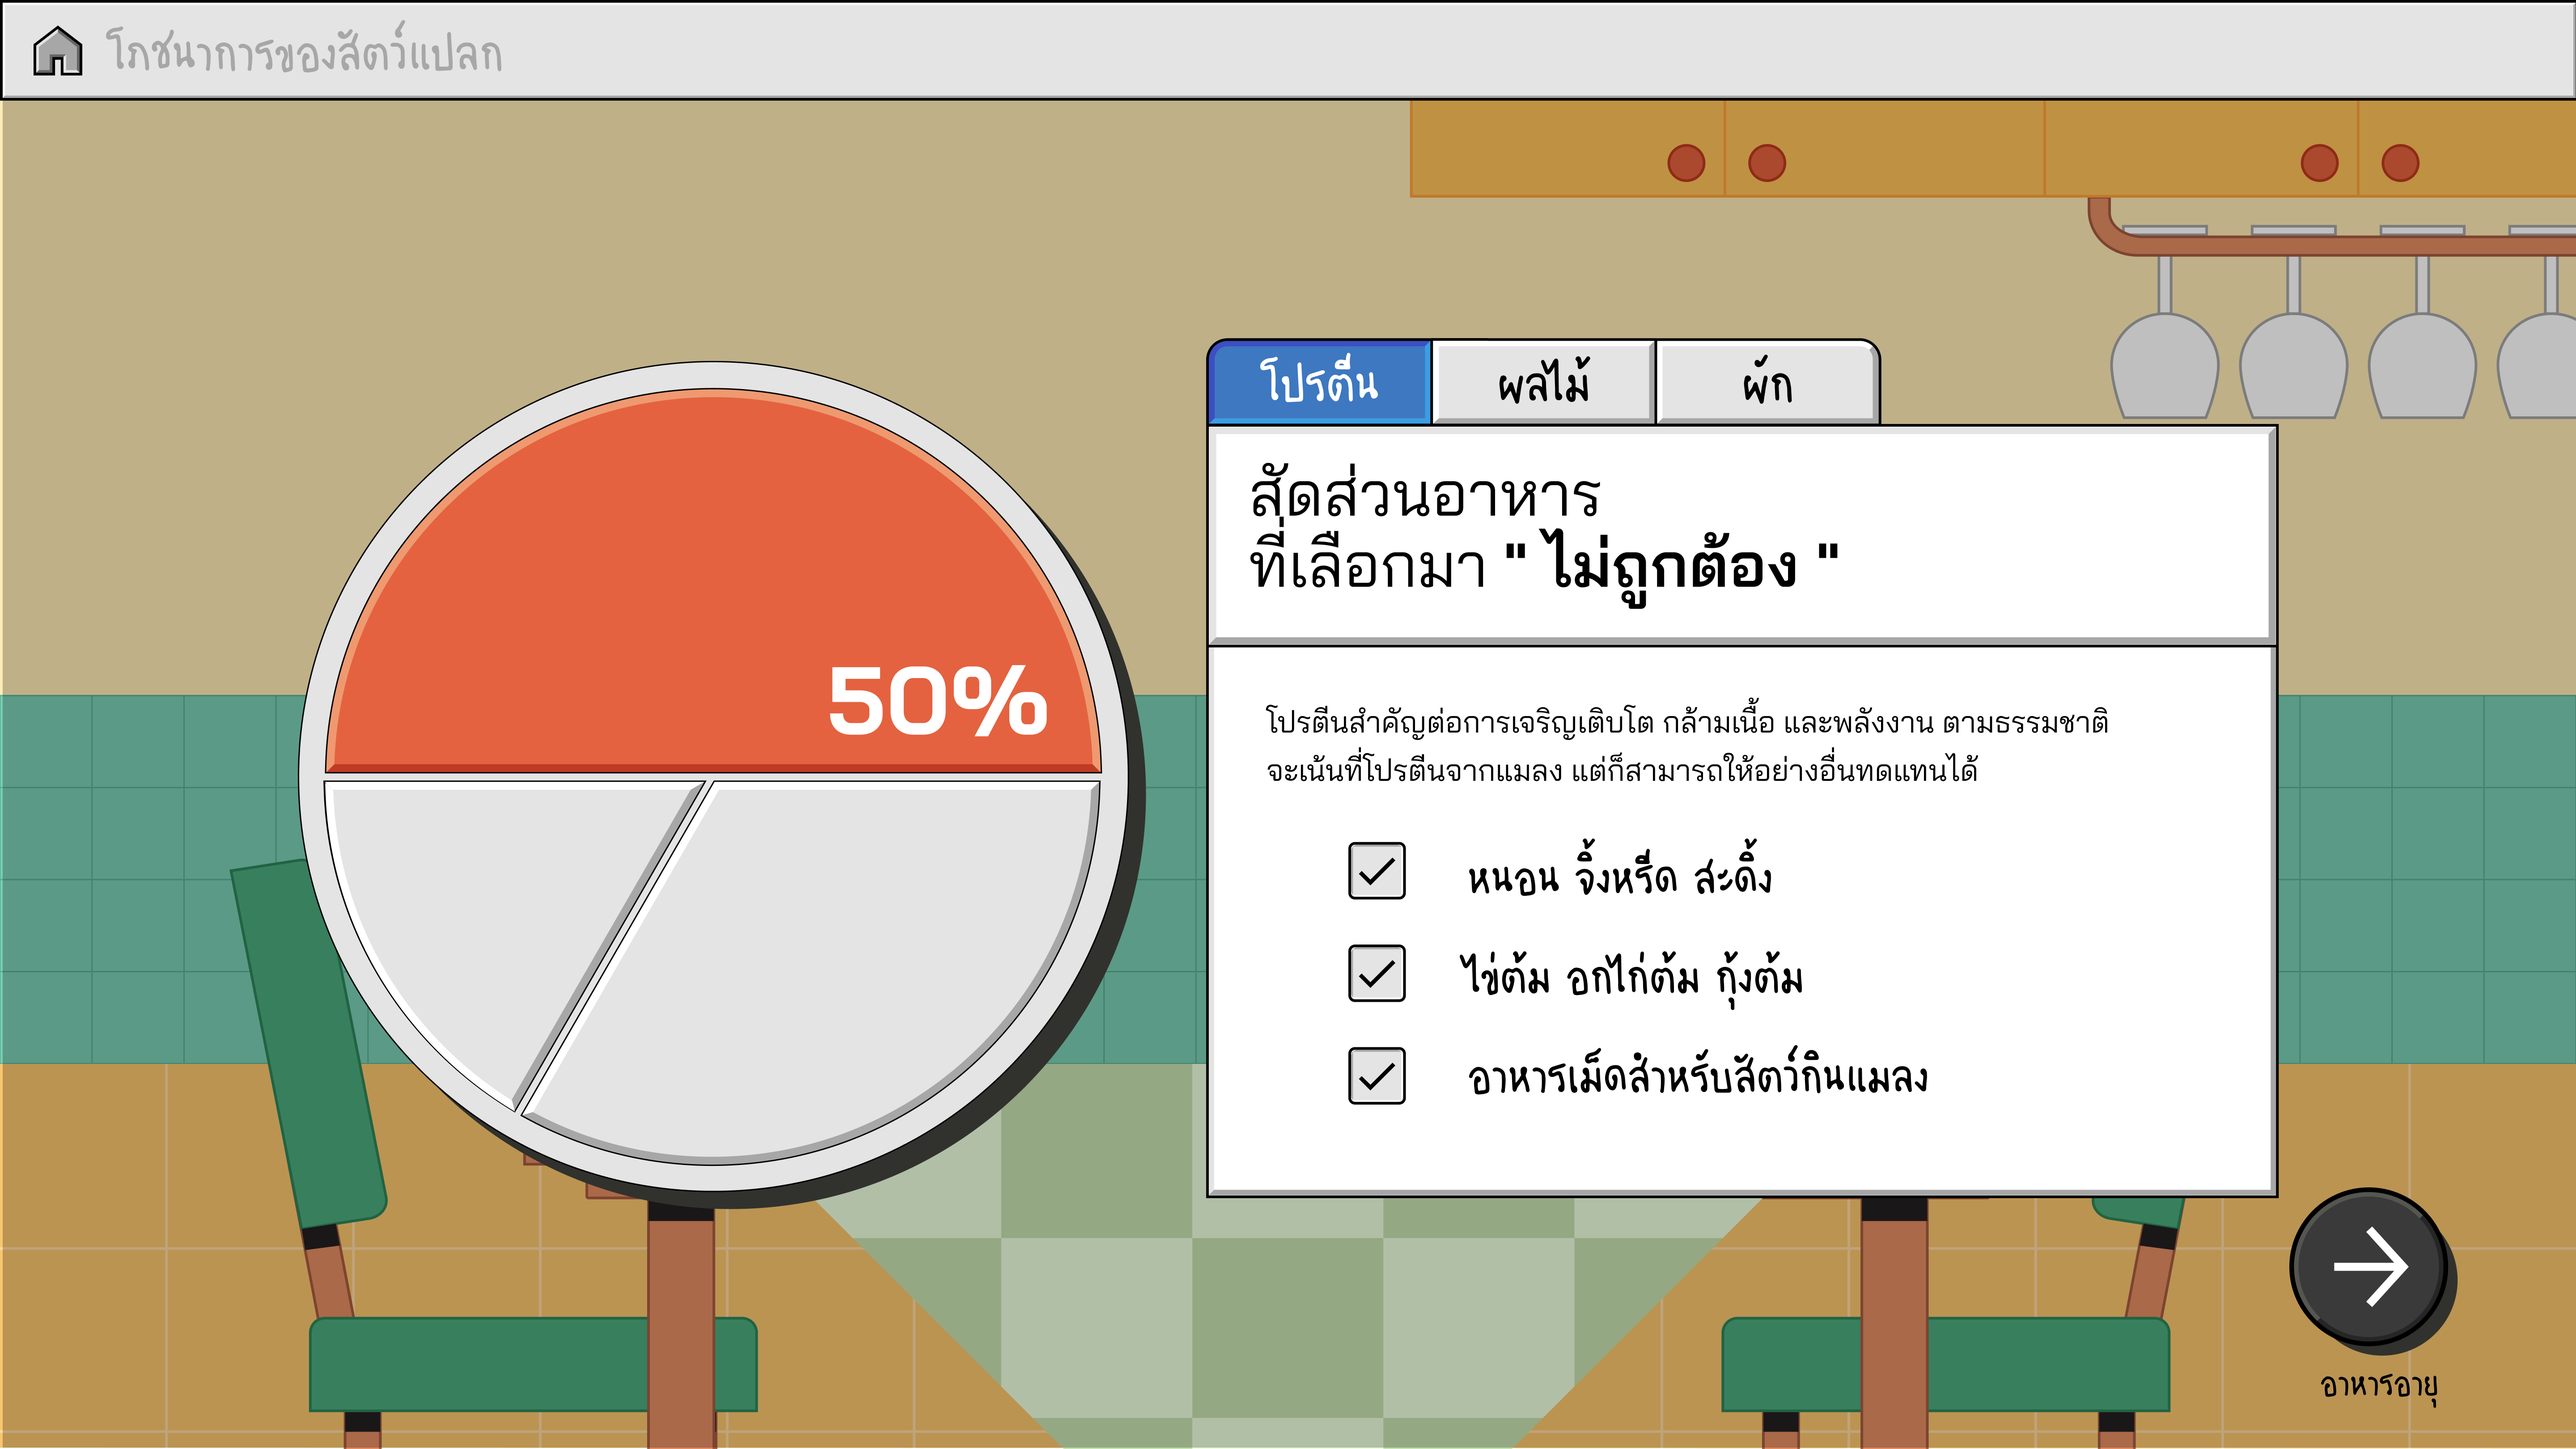
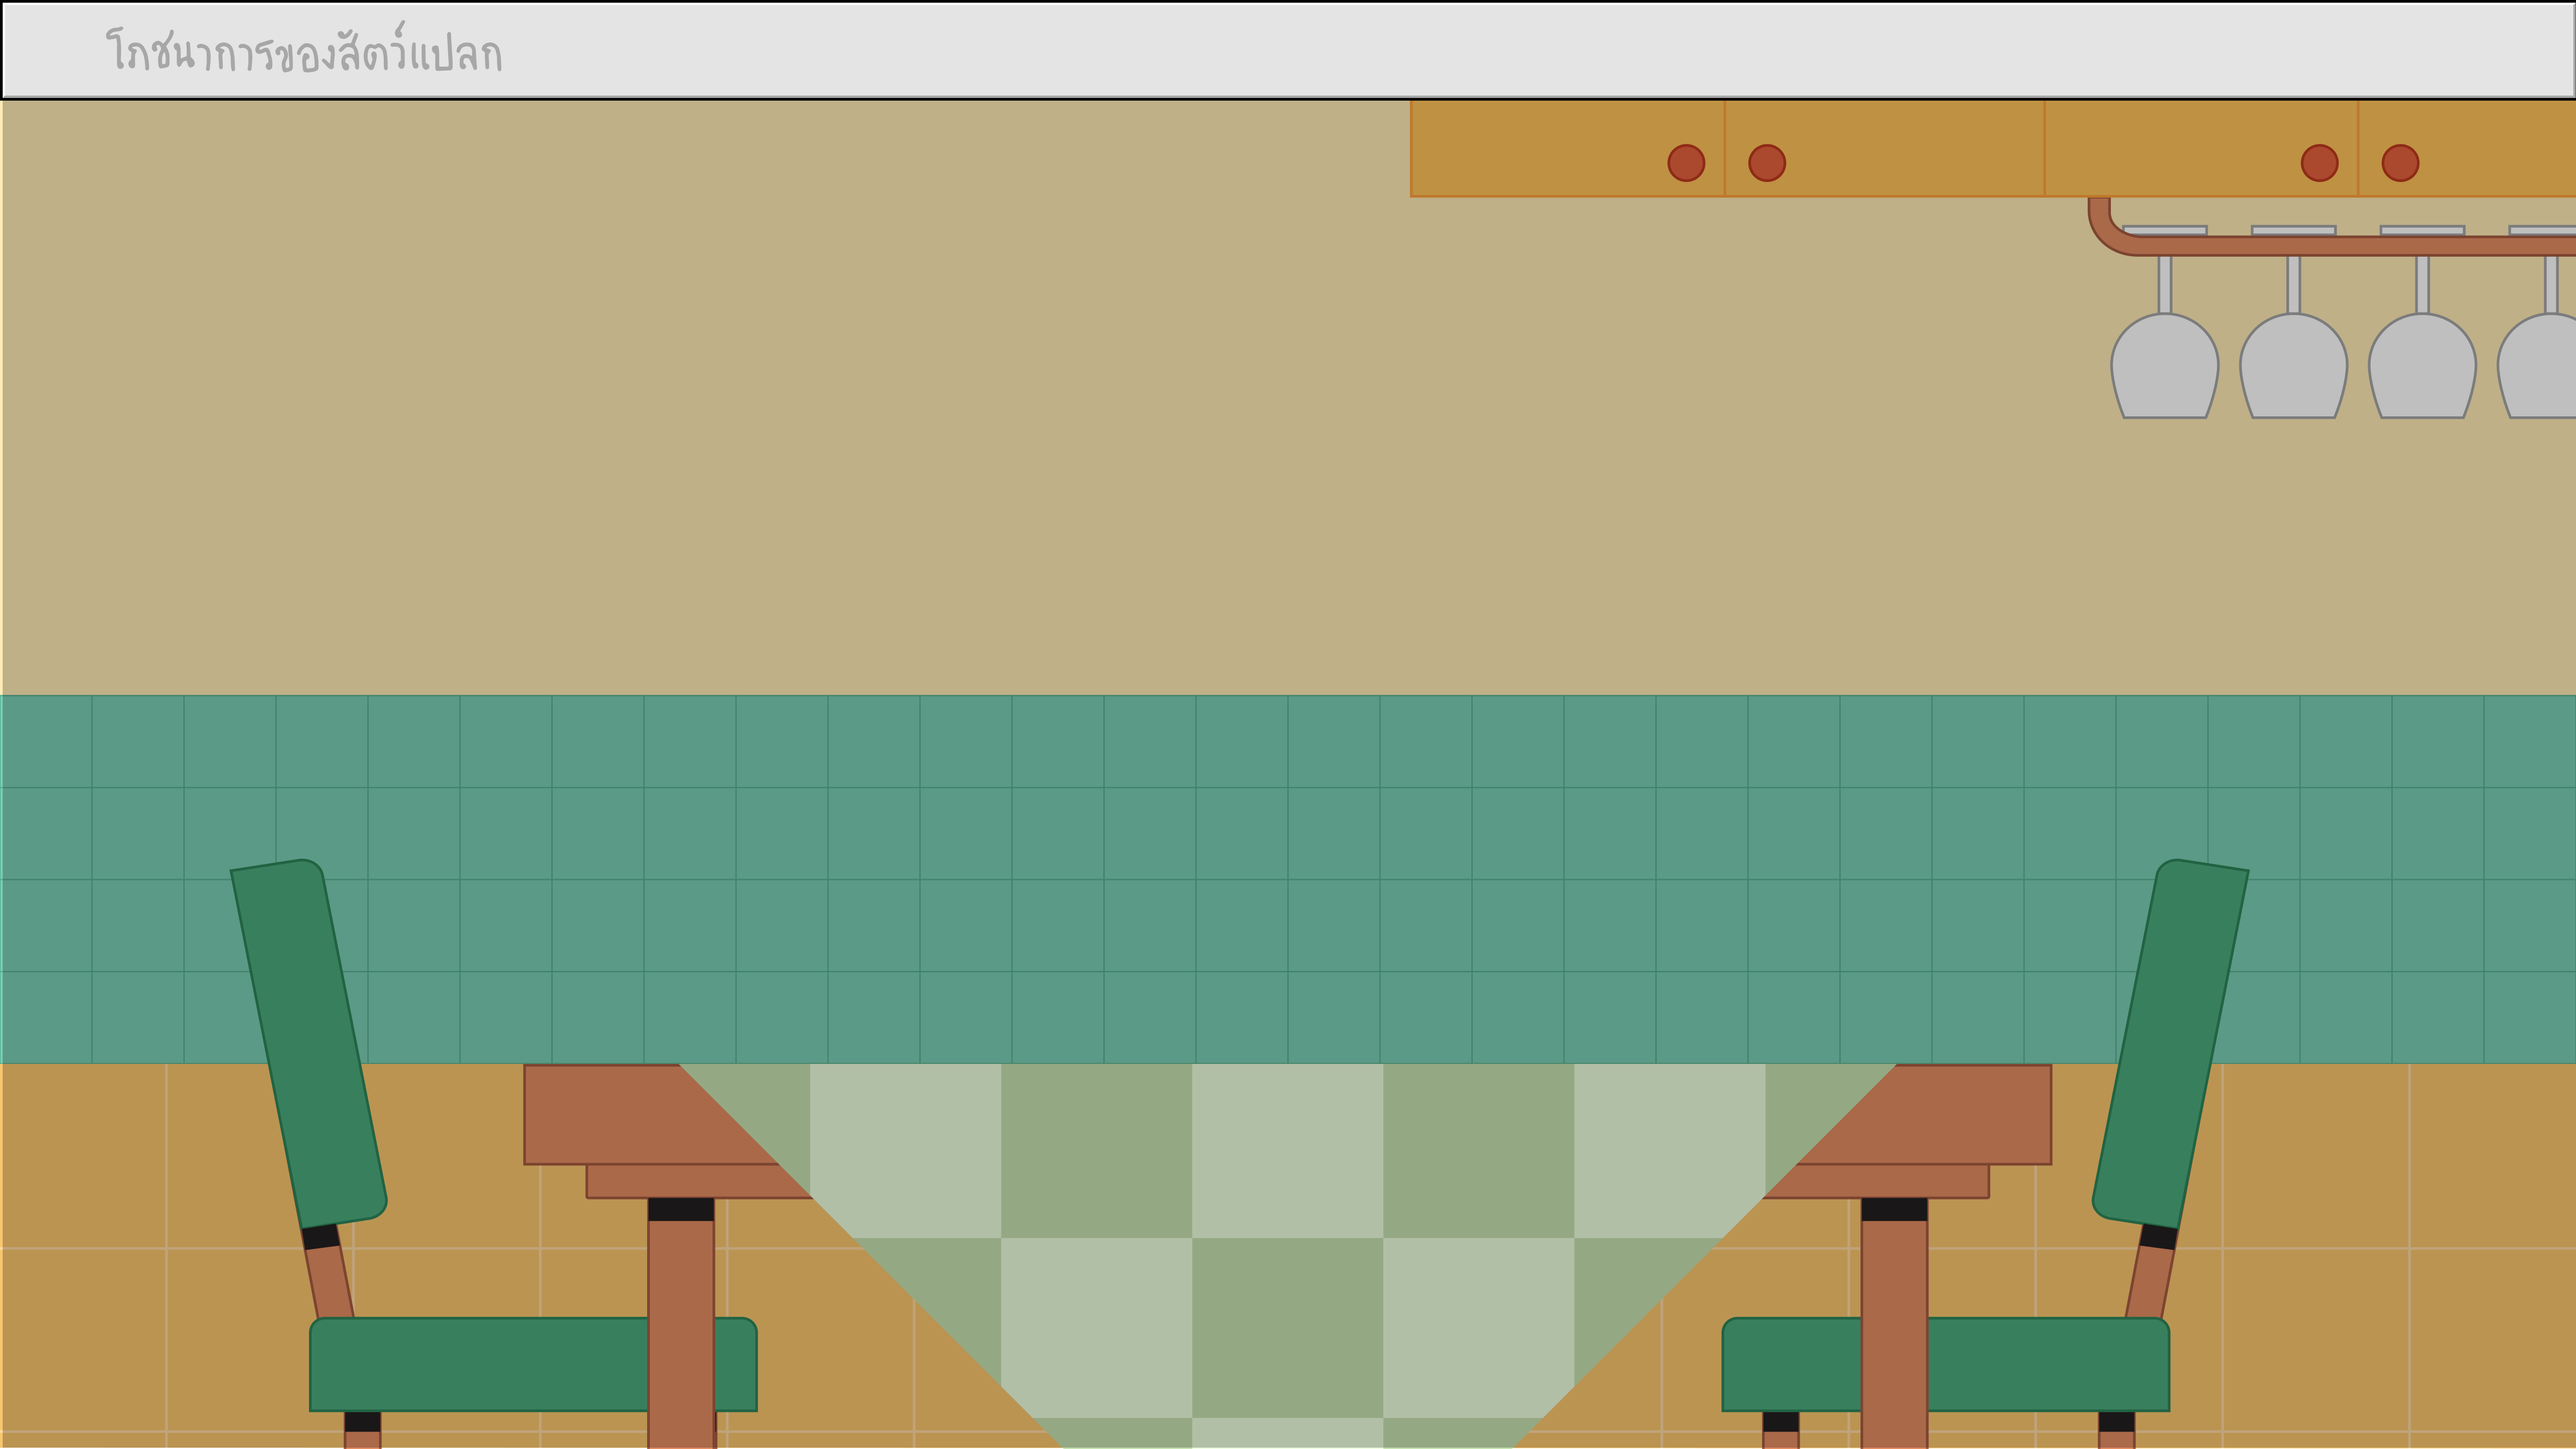
add sugar stat page

diff --git a/src/pages/sugarGliderRoom/SugarGliderFoodStat.tsx b/src/pages/sugarGliderRoom/SugarGliderFoodStat.tsx
@@ -1,13 +1,37 @@
-import { motion } from "framer-motion";
+import { useState } from "react";
+import { motion, AnimatePresence } from "framer-motion";
 import { useNavigate } from "react-router-dom";
 import "./SugarGliderFoodStat.css";
+
+// Assets
 import statBg from "../../assets/sugarGliderRoom/sugarGlider-food-stat-background.png";
+import homeIcon from "../../assets/components/home-icon.png";
+import proteinWin from "../../assets/sugarGliderRoom/protein-window.png";
+import fruitWin from "../../assets/sugarGliderRoom/fruit-window.png";
+import vegetableWin from "../../assets/sugarGliderRoom/vegetable-window.png";
+import foodAgeBtn from "../../assets/sugarGliderRoom/food-age-button.png";
+import foodAgeBg from "../../assets/sugarGliderRoom/food-age-background.png";
+import exploreBtn from "../../assets/sugarGliderRoom/explore-button.png";
 
 const SugarGliderFoodStat = () => {
   const navigate = useNavigate();
+  const [activeTab, setActiveTab] = useState("protein");
+  const [isAgeVisible, setIsAgeVisible] = useState(false);
+  const [isFoodAgeWindowVisible, setIsFoodAgeWindowVisible] = useState(false);
+
+  const allWindows = [
+    { id: "protein", src: proteinWin, alt: "Protein Statistics" },
+    { id: "fruit", src: fruitWin, alt: "Fruit Statistics" },
+    { id: "vegetable", src: vegetableWin, alt: "Vegetable Statistics" },
+  ];
+
+  const handleExploreClick = () => {
+    console.log("Explore clicked!");
+    setIsFoodAgeWindowVisible(true);
+  };
 
   return (
-    <motion.div 
+    <motion.div
       className="stat-overlay-page"
       initial={{ opacity: 0 }}
       animate={{ opacity: 1 }}
@@ -15,14 +39,114 @@ const SugarGliderFoodStat = () => {
       transition={{ duration: 0.4 }}
     >
       <div className="stat-wrapper">
-        {/* รูปพื้นหลังสถิติ - แสดงเต็มกรอบ 16:9 */}
-        <img 
-          src={statBg} 
-          className="stat-full-bg" 
-          alt="Food Stat Background" 
+        <img
+          src={statBg}
+          className="stat-full-bg"
+          alt="Sugar Glider Room Background"
         />
 
-        {/* คุณสามารถใส่ปุ่ม Next หรือปุ่มปิดทับบน Wrapper นี้ได้เลยในอนาคต */}
+        {/* Statistics Windows */}
+        <div className="window-container">
+          {allWindows.map((win) => (
+            <motion.img
+              key={win.id}
+              src={win.src}
+              className="stat-window-img"
+              alt={win.alt}
+              initial={false}
+              animate={{
+                opacity: activeTab === win.id ? 1 : 0,
+                visibility: activeTab === win.id ? "visible" : "hidden",
+              }}
+              transition={{ duration: 0.2, ease: "easeInOut" }}
+            />
+          ))}
+
+          <div className="tab-group">
+            <div
+              className="tab-hitbox"
+              onClick={() => setActiveTab("protein")}
+            ></div>
+            <div
+              className="tab-hitbox"
+              onClick={() => setActiveTab("fruit")}
+            ></div>
+            <div
+              className="tab-hitbox"
+              onClick={() => setActiveTab("vegetable")}
+            ></div>
+          </div>
+        </div>
+
+        {/* To Food Age Page Button */}
+        {!isAgeVisible && (
+          <motion.button
+            className="food-age-btn"
+            onClick={() => setIsAgeVisible(true)}
+            whileHover={{ scale: 1.05 }}
+            whileTap={{ scale: 1 }}
+          >
+            <img src={foodAgeBtn} alt="Go to Food Age Section" />
+          </motion.button>
+        )}
+
+        {/* Food Age Overlay */}
+        <AnimatePresence>
+          {isAgeVisible && (
+            <motion.div
+              className="food-age-overlay"
+              initial={{ opacity: 0 }}
+              animate={{ opacity: 1 }}
+              exit={{ opacity: 0 }}
+              transition={{ duration: 0.5 }}
+            >
+              <img
+                src={foodAgeBg}
+                className="food-age-full-bg"
+                alt="Food Age Background"
+              />
+
+              <motion.button
+                className="explore-btn"
+                onClick={handleExploreClick}
+                whileHover={{ scale: 1.05 }}
+                whileTap={{ scale: 1 }}
+              >
+                <img src={exploreBtn} alt="Explore Button" />
+              </motion.button>
+            </motion.div>
+          )}
+        </AnimatePresence>
+
+        {/* Food Age Window (Pop-up) */}
+        <AnimatePresence>
+          {isFoodAgeWindowVisible && (
+            <motion.div
+              className="food-age-window-container"
+              initial={{ opacity: 0, scale: 0.9 }}
+              animate={{ opacity: 1, scale: 1 }}
+              exit={{ opacity: 0, scale: 0.9 }}
+              transition={{ duration: 0.3 }}
+            >
+              <div className="placeholder-window">
+                <p>หน้าต่างข้อมูลอาหารตามช่วงอายุ</p>
+                <button onClick={() => setIsFoodAgeWindowVisible(false)}>
+                  ปิด
+                </button>
+              </div>
+            </motion.div>
+          )}
+        </AnimatePresence>
+
+        {/* Home Button */}
+        <motion.button
+          className="home-btn"
+          onClick={() => navigate("/lobby")}
+          whileHover={{ scale: 1.1 }}
+          whileTap={{ scale: 1 }}
+        >
+          <img src={homeIcon} alt="Return to Lobby" />
+        </motion.button>
       </div>
     </motion.div>
   );

diff --git a/src/pages/sugarGliderRoom/SugarGliderFoodStat.css b/src/pages/sugarGliderRoom/SugarGliderFoodStat.css
@@ -1,19 +1,17 @@
-/* คลุมเต็มหน้าจอเบราว์เซอร์ */
 .stat-overlay-page {
   position: fixed;
   top: 0;
   left: 0;
   width: 100vw;
   height: 100vh;
-  background-color: #bb9452 !important; /* สีเดียวกับหน้าอื่นเพื่อความเนียน */
-  z-index: 100002; /* ต้องสูงกว่าหน้า Dining (100001) */
+  background-color: #bb9452 !important;
+  z-index: 100002;
   display: flex;
   justify-content: center;
   align-items: flex-start;
   overflow: hidden;
 }
 
-/* กรอบสัดส่วน 16:9 */
 .stat-wrapper {
   position: relative;
   width: 100%;
@@ -21,11 +19,131 @@
   margin: 0 auto;
 }
 
-/* ภาพพื้นหลังสถิติ */
 .stat-full-bg {
   width: 100%;
   height: 100%;
   display: block;
-  /* มั่นใจว่าภาพจะแปะเต็มกรอบ 16:9 และชิดขอบบน */
-  object-fit: fill; 
+  object-fit: fill;
+}
+
+.home-btn {
+  position: absolute;
+  top: 1.7%;
+  left: 1.3%;
+  background: none;
+  border: none;
+  cursor: pointer;
+  width: 1.9vw;
+  z-index: 100010;
+  padding: 0;
+}
+
+.home-btn img {
+  width: 100%;
+  display: block;
+}
+
+.window-container {
+  position: absolute;
+  top: 61.7%;
+  left: 50%;
+  transform: translate(-50%, -50%);
+  width: 76.9%;
+  aspect-ratio: 16 / 9;
+  display: block;
+  z-index: 999;
+}
+
+.stat-window-img {
+  position: absolute;
+  top: 0;
+  left: 0;
+  width: 100%;
+  height: auto;
+  display: block;
+}
+
+.tab-group {
+  position: absolute;
+  top: 0;
+  width: 34.3%;
+  height: 10%;
+  display: flex;
+  right: 20%;
+  z-index: 1001;
+}
+
+.tab-hitbox {
+  flex: 1;
+  cursor: pointer;
+}
+
+.food-age-btn {
+  position: absolute;
+  bottom: 2.8%;
+  right: 4.5%;
+  width: 6.7vw;
+  background: none;
+  border: none;
+  cursor: pointer;
+  z-index: 999;
+}
+
+.food-age-btn img {
+  width: 100%;
+  display: block;
+}
+
+.food-age-overlay {
+  position: absolute;
+  top: 0;
+  left: 0;
+  width: 100%;
+  height: 100%;
+  z-index: 100005;
+  background-color: #bb9452;
+}
+
+.food-age-full-bg {
+  width: 100%;
+  height: 100%;
+  object-fit: fill;
+  display: block;
+}
+
+.explore-btn {
+  position: absolute;
+  bottom: 25.9%;
+  right: 42.5%;
+  width: 14.9vw;
+  background: none;
+  border: none;
+  cursor: pointer;
+  z-index: 100006;
+  padding: 0;
+}
+
+.explore-btn img {
+  width: 100%;
+  display: block;
+}
+
+.food-age-window-container {
+  position: absolute;
+  top: 40%;
+  left: 15%;
+  transform: translate(-50%, -50%);
+  width: 70%;
+  z-index: 100007;
+  display: flex;
+  justify-content: center;
+  align-items: center;
+}
+
+.placeholder-window {
+  color: white;
+  padding: 40px;
+  background: rgba(0, 0, 0, 0.85);
+  border-radius: 20px;
+  text-align: center;
 }

diff --git a/src/pages/sugarGliderRoom/SugarGliderDining.tsx b/src/pages/sugarGliderRoom/SugarGliderDining.tsx
@@ -308,7 +308,7 @@ const SugarGliderDining = () => {
           className="home-btn"
           onClick={() => navigate("/lobby")}
           whileHover={{ scale: 1.1 }}
-          whileTap={{ scale: 0.9 }}
+          whileTap={{ scale: 1 }}
         >
           <img src={homeIcon} alt="Home" />
         </motion.button>
